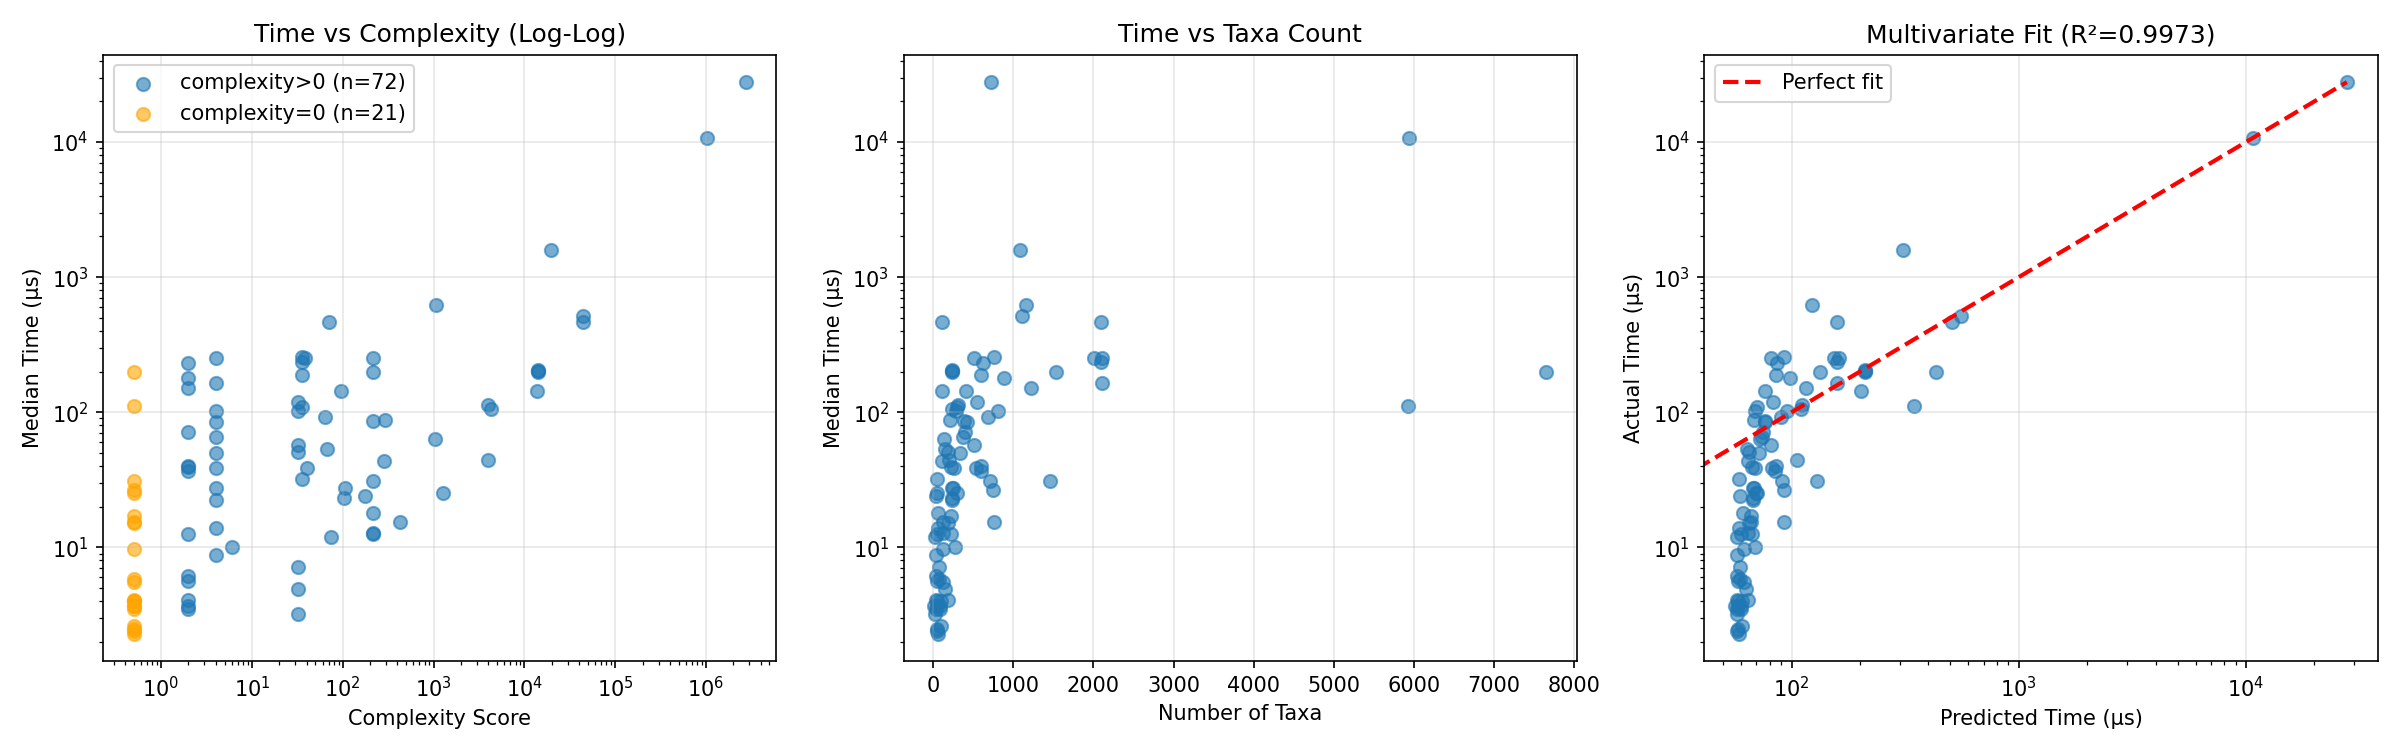
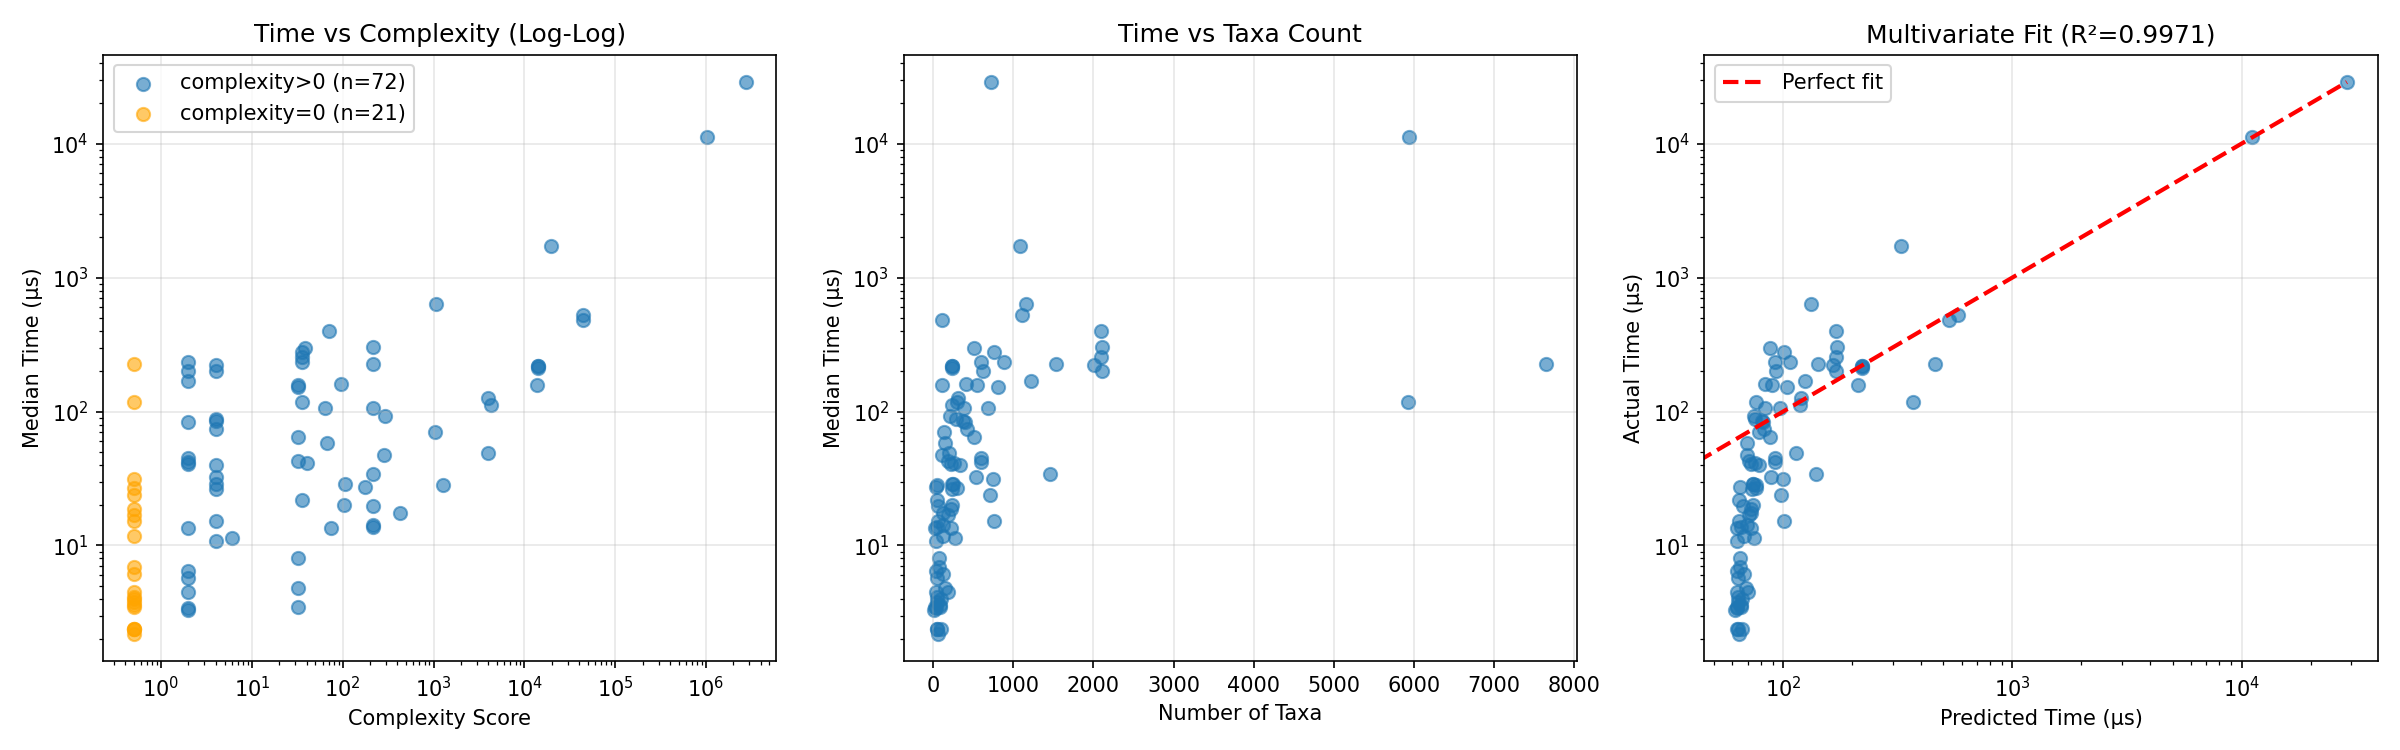
Updated README

diff --git a/calibratedcpp-beast/validation/calibratedcpp/phylodata_calibration_forests/README.md b/calibratedcpp-beast/validation/calibratedcpp/phylodata_calibration_forests/README.md
@@ -35,7 +35,7 @@ All 93 constraint trees benchmark successfully with CalibratedCoalescentPointPro
 
 **Regression model** (R² = 1.00):
 ```
-time(μs) = 0.010 × complexity + 0.049 × taxa + 55.6
+time(μs) = 0.011 × complexity + 0.052 × taxa + 60.8
 ```
 
 Where complexity = Σ 2^k × k³ for each calibration node with k children.
@@ -44,11 +44,11 @@ Where complexity = Σ 2^k × k³ for each calibration node with k children.
 <!-- start of table -->
 | File | Taxa | Calibrations | Complexity | Time (μs) |
 |------|------|--------------|------------|-----------|
-| burridge-2020-migration-nbmn_Galaxioid_Diversification | 725 | 17 | 2,726,108 | 27,772 |
-| harrington-2024-dispersal-we1f_BEAST_divtimes_set3 | 5,940 | 22 | 1,024,106 | 10,766 |
-| trotta-2018-community-a38u_Trotta_PineRockland | 1,080 | 50 | 19,816 | 1,589 |
-| v-2016-new-g4qu_Scleractinia | 1,158 | 8 | 1,058 | 622 |
-| marburger-2018-whole-8zqj_cory_final_bmodel | 1,105 | 7 | 43,904 | 514 |
+| burridge-2020-migration-nbmn_Galaxioid_Diversification | 725 | 17 | 2,726,108 | 28,787 |
+| harrington-2024-dispersal-we1f_BEAST_divtimes_set3 | 5,940 | 22 | 1,024,106 | 11,155 |
+| trotta-2018-community-a38u_Trotta_PineRockland | 1,080 | 50 | 19,816 | 1,730 |
+| v-2016-new-g4qu_Scleractinia | 1,158 | 8 | 1,058 | 630 |
+| marburger-2018-whole-8zqj_cory_final_bmodel | 1,105 | 7 | 43,904 | 527 |
 <!-- end of table -->
 ## Usage
 

diff --git a/calibratedcpp-beast/validation/calibratedcpp/validation_and_benchmark/README.md b/calibratedcpp-beast/validation/calibratedcpp/validation_and_benchmark/README.md
@@ -25,7 +25,7 @@ We also validate the likelihood computation by comparing log-likelihood values f
 
 ## Usage
 
-Run benchmark:
+Run benchmark (takes approximately 50 minutes):
 ```bash
 mvn clean test-compile
 java -Xss32m -cp "$(mvn dependency:build-classpath | grep -v '\[INFO\]' | tr '\n' ':'):target/classes:target/test-classes" \
